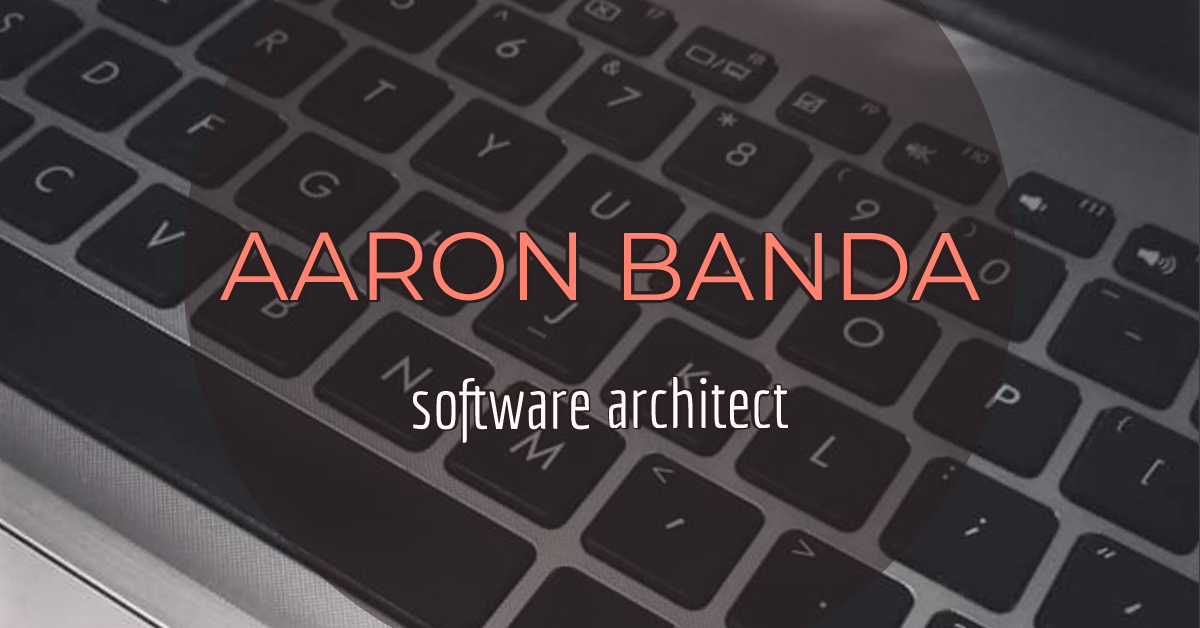
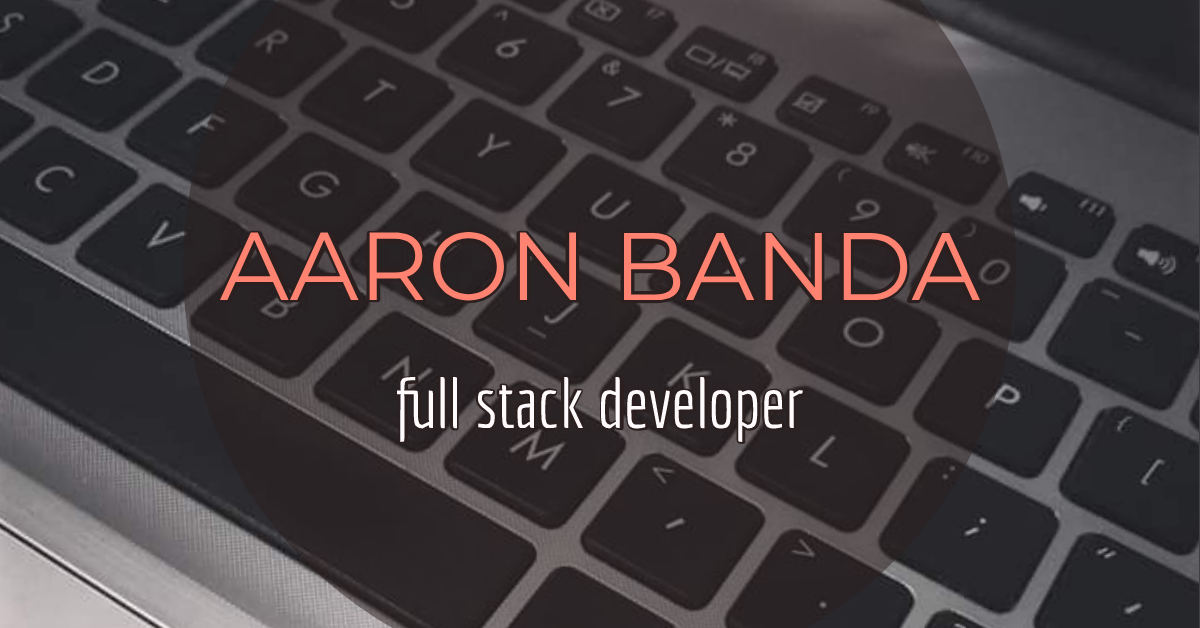
Re-worded

Changed region(s): [[0.3083, 0.6051, 0.6783, 0.6959]]

diff --git a/index.html b/index.html
@@ -8,12 +8,12 @@
 		<link rel="icon" href="img/ab.png" type="image/png" sizes="16x16">
 		<link rel="stylesheet" href="css/custom.css">
 		<link rel="stylesheet" href="css/css/all.min.css">
-		<meta property="og:title" content="Aaron Banda - Software Architect">
-		<meta property="og:description" content="Software Architect with extensive experience in developing and supporting mission critical applications">
+		<meta property="og:title" content="Aaron Banda - Full Stack Developer">
+		<meta property="og:description" content="Full Stack Developer with extensive experience in developing and supporting mission critical applications">
 		<meta property="og:image" content="img/og.jpg">
 		<meta property="og:url" content="https://ajibanda.github.io/">
 		<link href="https://fonts.googleapis.com/css?family=Nunito&display=swap" rel="stylesheet">
-		<title>Aaron Banda | Software Architect</title>
+		<title>Aaron Banda | Full Stack Developer</title>
 	</head>
 	<body translate="no">
 		<div id='stars'></div>
@@ -188,8 +188,8 @@
 
 		<div id='title'>
 			<div class="aaronname">AARON BANDA</div>
-			<span>Software Architect</span>
-			<div class="descr">Multi-faceted Software Architect with extensive experience in developing and supporting mission critical applications.</div>
+			<span>Full Stack Developer</span>
+			<div class="descr">Multi-faceted developer with extensive experience in developing and supporting mission critical applications.</div>
 			<div class="links">
 				<a href="javascript:;" class="works btn btn-outline-secondary">WORKS</a>
 				<a href="javascript:;" class="profile btn btn-outline-secondary">PROFILE</a>
